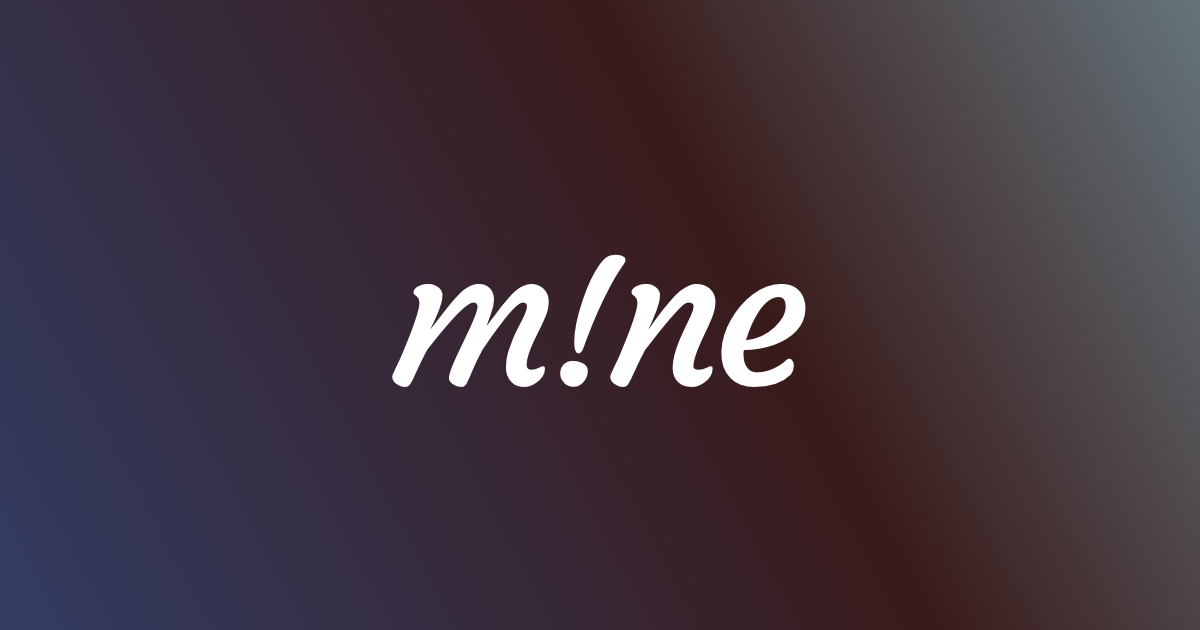
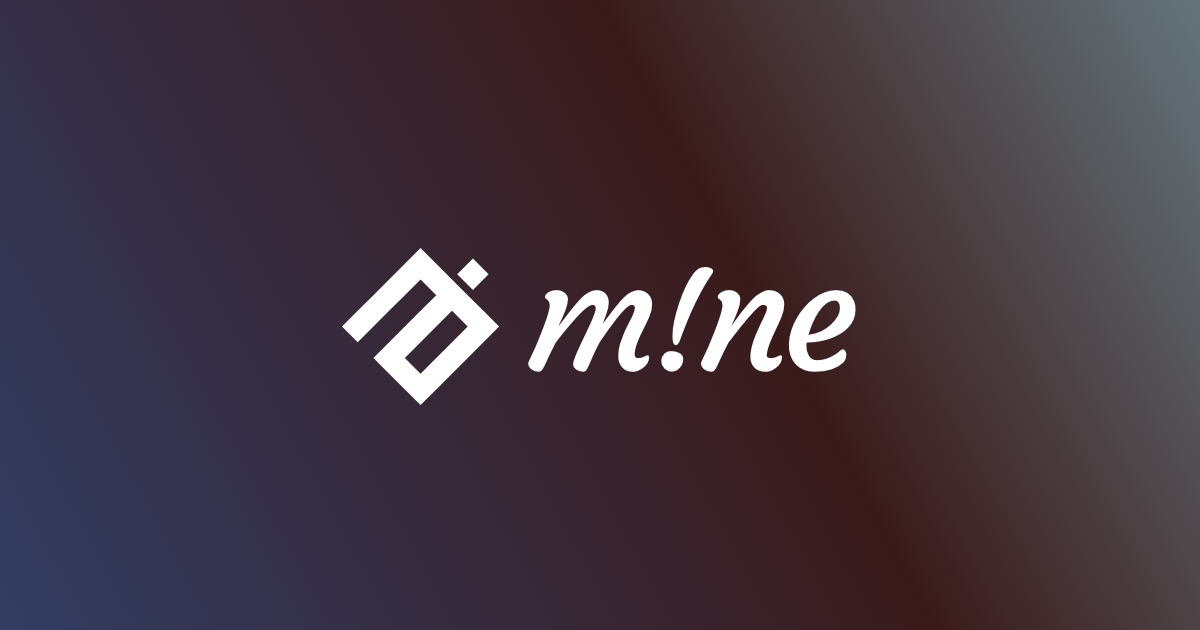
サイトロゴリニューアル

Changed region(s): [[0.2775, 0.3921, 0.74, 0.6333]]

diff --git a/components/MineLogo.vue b/components/MineLogo.vue
@@ -1,18 +1,17 @@
 <template>
-  <svg xmlns="http://www.w3.org/2000/svg" viewBox="0 0 164.36 55.63" :class="{jsAnimation: isLoaded}">
-    <defs>
-      <style>.cls-1{fill:transparent;stroke:#ffffff;stroke-miterlimit:10;}</style>
-    </defs>
-    <g id="logo">
-      <title>mine</title>
-      <g id="mine">
-        <path class="cls-1 svg-elem-1" d="M29.47,17.26q-2,0-7.45,5.91Q18,27.78,16.14,30.1L13,34.1q-2,3.87-3.2,6.44l-1.9,4.07A10.13,10.13,0,0,1,6.6,46.74a1.88,1.88,0,0,1-1.48.62A4.75,4.75,0,0,1,3.33,47a5.29,5.29,0,0,1-1.49-.86A3.19,3.19,0,0,1,.5,43.7a6.28,6.28,0,0,1,.77-2.07l1.34-2.85c.42-.84.91-1.92,1.48-3.24l2-4.81q4.16-10.38,4.15-13.4a2.79,2.79,0,0,0-1-2.39l-.7-.49a1,1,0,0,1-.36-.86,1.81,1.81,0,0,1,.48-1.18,4.22,4.22,0,0,1,1.25-1A6.89,6.89,0,0,1,13,10.62a7.33,7.33,0,0,1,2.51.35,4.9,4.9,0,0,1,1.58.95,3.54,3.54,0,0,1,1.34,2.57,10.92,10.92,0,0,1-.35,2.69c-.24.9-.53,1.81-.88,2.74s-.73,1.82-1.13,2.69c-.93,2-1.51,3.25-1.74,3.71s-.28.62-.19.51q6.43-8.34,7.74-9.85a34.31,34.31,0,0,1,4.21-4.29,9,9,0,0,1,5.26-2.07,5.17,5.17,0,0,1,3.95,1.55,5.63,5.63,0,0,1,1.48,4.07,15.11,15.11,0,0,1-1.12,5.21c-.75,2-1.26,3.38-1.52,4.18l5.17-6.82,2.89-3.45a15.49,15.49,0,0,1,4.57-3.83A8.06,8.06,0,0,1,50,10.62a6.83,6.83,0,0,1,2.46.46,5.53,5.53,0,0,1,2.06,1.3A6,6,0,0,1,56.29,17,14,14,0,0,1,55,22.57c-.85,1.92-1.58,3.5-2.22,4.73S51.57,29.77,51,31c-1.71,3.73-2.56,6.49-2.56,8.3,0,1.26.51,1.89,1.54,1.89a5.71,5.71,0,0,0,2.69-.63,4.92,4.92,0,0,1,1.57-.63.66.66,0,0,1,.74.74q0,3.12-3.2,5.24a7.22,7.22,0,0,1-3.92,1.44A8.13,8.13,0,0,1,45,46.94a5.66,5.66,0,0,1-2-1.34,7.06,7.06,0,0,1-2-5.1,19.24,19.24,0,0,1,.77-5.62,42.27,42.27,0,0,1,1.83-5q1.05-2.4,2.12-4.43c.72-1.35,1.26-2.42,1.64-3.21a10,10,0,0,0,1.12-3.63c0-.91-.48-1.37-1.44-1.37q-1.89,0-6.82,6.3-3.72,4.88-5.17,7L32.67,34.1q-2,3.87-3.13,6.44l-1.79,4.07a11,11,0,0,1-1.16,2.13,1.68,1.68,0,0,1-1.38.62,5.46,5.46,0,0,1-1.7-.28,5,5,0,0,1-1.42-.74,2.79,2.79,0,0,1-1.38-2.16,9.56,9.56,0,0,1,.76-3.13q.75-2,1.88-4.45l4.92-10.41c1.76-3.86,2.64-6.32,2.64-7.36S30.43,17.26,29.47,17.26ZM33,27.18s0,0,0,0l0-.07C33,27.12,33,27.15,33,27.18Z" />
-        <path class="cls-1 svg-elem-2" d="M65.48,45.14a5,5,0,0,1-1.08-1.49A4.54,4.54,0,0,1,64,41.71a4.28,4.28,0,0,1,.44-2,4.11,4.11,0,0,1,1.1-1.4,4,4,0,0,1,2.5-.94,11.86,11.86,0,0,1,2.24.18,6.6,6.6,0,0,1,1.71.56,2.93,2.93,0,0,1,1.91,2.7,5.57,5.57,0,0,1-1.48,3.84,4.63,4.63,0,0,1-2.9,1.68,5.35,5.35,0,0,1-2.43-.22A4.94,4.94,0,0,1,65.48,45.14Zm5-10.34c-1,0-1.48-1.36-1.48-4.08q0-5.64,3-14.48A46.05,46.05,0,0,1,78.27,3.73,7.48,7.48,0,0,1,82,.74,7.57,7.57,0,0,1,83.79.5a7.94,7.94,0,0,1,1.47.12A4.21,4.21,0,0,1,86.38,1c.71.31,1.06.72,1.06,1.2a2.69,2.69,0,0,1-.6,1.56c-.41.55-1,1.49-1.94,2.82S83,9.62,81.78,11.78A147.64,147.64,0,0,0,73.39,30.1c-.28.71-.52,1.35-.71,1.92a11.86,11.86,0,0,1-.59,1.49C71.67,34.37,71.14,34.8,70.52,34.8Z" />
-        <path class="cls-1 svg-elem-3" d="M114.11,17.26c-.73,0-1.76.7-3.1,2.09s-2.49,2.67-3.48,3.82l-3,3.59L98.78,34.1q-2,3.87-3.2,6.44l-1.9,4.07a10.13,10.13,0,0,1-1.28,2.13,1.88,1.88,0,0,1-1.48.62A4.75,4.75,0,0,1,89.13,47a5.29,5.29,0,0,1-1.49-.86A3.19,3.19,0,0,1,86.3,43.7a6.28,6.28,0,0,1,.77-2.07l1.34-2.85c.42-.84.91-1.92,1.48-3.24l2-4.81Q96,20.35,96,17.33a2.79,2.79,0,0,0-1-2.39l-.7-.49a1,1,0,0,1-.36-.86,1.81,1.81,0,0,1,.48-1.18,4.22,4.22,0,0,1,1.25-1,6.89,6.89,0,0,1,3.18-.81,7.06,7.06,0,0,1,2.48.35,4.29,4.29,0,0,1,1.47.95,3.55,3.55,0,0,1,1.3,2.57,11.38,11.38,0,0,1-.33,2.69,25.86,25.86,0,0,1-.84,2.74c-.34.92-.7,1.83-1.08,2.72s-.71,1.67-1,2.32l-.7,1.51c-.19.38-.23.5-.14.36q3.9-5.41,5.13-7l2.46-2.95a24.16,24.16,0,0,1,4.26-4.18q3.12-2.12,4.92-2.11a8.57,8.57,0,0,1,3,.46,6.26,6.26,0,0,1,2.15,1.3A6,6,0,0,1,123.81,17a15.08,15.08,0,0,1-1.26,5.8c-.85,2-1.58,3.65-2.2,4.9s-1.21,2.53-1.78,3.82q-2.62,5.87-2.63,8.54c0,.8.63,1.19,1.89,1.19a5.71,5.71,0,0,0,2.69-.63,4.92,4.92,0,0,1,1.57-.63.66.66,0,0,1,.74.74q0,3.12-3.2,5.24a7.22,7.22,0,0,1-3.94,1.44,9.59,9.59,0,0,1-3-.39,5.67,5.67,0,0,1-2.09-1.23,6.61,6.61,0,0,1-2.08-5.2q0-4.08,2.57-10.2,1.86-4.18,2.64-5.73l1.19-2.5A8.78,8.78,0,0,0,116,18.56C116,17.7,115.4,17.26,114.11,17.26Z" />
-        <path class="cls-1 svg-elem-4" d="M129.51,34.7a22.55,22.55,0,0,1,1-5.85,28.13,28.13,0,0,1,2.35-5.42,32.61,32.61,0,0,1,3.46-4.95,27.24,27.24,0,0,1,4.31-4.1,16.85,16.85,0,0,1,10.16-3.76q6,0,8,5a9.94,9.94,0,0,1,.67,4,11.2,11.2,0,0,1-.88,4.25,12.72,12.72,0,0,1-2.34,3.55,17.27,17.27,0,0,1-3.55,2.87,25,25,0,0,1-4.48,2.14,33.39,33.39,0,0,1-10.69,1.83,6.08,6.08,0,0,0-.18,1.48,9.84,9.84,0,0,0,.21,2.19,6.46,6.46,0,0,0,.85,2.16,4,4,0,0,0,3.65,2.11A14.89,14.89,0,0,0,150,39.76a11,11,0,0,0,2.23-1.67,2.36,2.36,0,0,1,1.49-.86,1.31,1.31,0,0,1,1.11.76,3.09,3.09,0,0,1,.48,1.7,5.13,5.13,0,0,1-1.06,3.24q-4.42,4.43-13.18,4.43a11.27,11.27,0,0,1-8.3-3.1Q129.3,40.75,129.51,34.7ZM150,15.29q-3.69,0-7.1,5.07a37.77,37.77,0,0,0-4.64,10.33,17.05,17.05,0,0,0,10.19-4.64c2.65-2.53,4-4.95,4-7.28S151.66,15.29,150,15.29Z" />
-      </g>
-    </g>
+  <svg xmlns="http://www.w3.org/2000/svg" viewBox="0 0 500 500" :class="{jsAnimation: isLoaded}">
+  <style type="text/css">
+    .st0{fill:#FFFFFF;stroke:#FFFFFF;stroke-width:3;stroke-miterlimit:10;}
+  </style>
+  <g>
+    <rect x="361.4" y="78.6" transform="matrix(0.7071 -0.7071 0.7071 0.7071 37.868 308.5786)" class="st0 svg-elem-1" width="60" height="60"></rect>
+    <path class="st0 svg-elem-2" d="M419.7,207.6l-42.4-42.4l-42.4-42.4l-42.4-42.4L250,37.9l-42.4,42.4l-42.4,42.4l-42.4,42.4l-42.4,42.4
+      L37.9,250l42.4,42.4l42.4-42.4l42.4-42.4l42.4-42.4l42.4-42.4l42.4,42.4L250,207.6L207.6,250l-42.4,42.4l-42.4,42.4l42.4,42.4
+      l42.4,42.4l42.4,42.4l42.4-42.4l42.4-42.4l42.4-42.4l42.4-42.4l42.4-42.4L419.7,207.6z M334.9,292.4l-42.4,42.4L250,377.3
+      l-42.4-42.4l42.4-42.4l42.4-42.4l42.4-42.4l42.4,42.4L334.9,292.4z"></path>
+  </g>
   </svg>
+
 </template>
 
 <script>
@@ -25,60 +24,38 @@ export default {
 
 <style lang="scss" scoped>
 /***************************************************
- * Generated by SVG Artista on 7/13/2021, 2:16:33 PM
+ * Generated by SVG Artista on 9/5/2021, 11:52:19 PM
  * MIT license (https://opensource.org/licenses/MIT)
  * W. https://svgartista.net
  **************************************************/
 svg .svg-elem-1 {
-  stroke-dashoffset: 336.7806396484375px;
-  stroke-dasharray: 336.7806396484375px;
+  stroke-dashoffset: 242px;
+  stroke-dasharray: 242px;
   fill: transparent;
   -webkit-transition: stroke-dashoffset 1s cubic-bezier(0.47, 0, 0.745, 0.715) 0s,
                         fill 0.7s cubic-bezier(0.47, 0, 0.745, 0.715) 0.8s;
           transition: stroke-dashoffset 1s cubic-bezier(0.47, 0, 0.745, 0.715) 0s,
                 fill 0.7s cubic-bezier(0.47, 0, 0.745, 0.715) 0.8s;
 }
+
 svg.jsAnimation .svg-elem-1 {
   stroke-dashoffset: 0;
-  fill: #FFFFFF;
+  fill: rgb(255, 255, 255);
 }
+
 svg .svg-elem-2 {
-  stroke-dashoffset: 134.23880004882812px;
-  stroke-dasharray: 134.23880004882812px;
+  stroke-dashoffset: 2160.796875px;
+  stroke-dasharray: 2160.796875px;
   fill: transparent;
   -webkit-transition: stroke-dashoffset 1s cubic-bezier(0.47, 0, 0.745, 0.715) 0.12s,
                         fill 0.7s cubic-bezier(0.47, 0, 0.745, 0.715) 0.9s;
           transition: stroke-dashoffset 1s cubic-bezier(0.47, 0, 0.745, 0.715) 0.12s,
                 fill 0.7s cubic-bezier(0.47, 0, 0.745, 0.715) 0.9s;
 }
+
 svg.jsAnimation .svg-elem-2 {
   stroke-dashoffset: 0;
-  fill: #FFFFFF;
+  fill: rgb(255, 255, 255);
 }
-svg .svg-elem-3 {
-  stroke-dashoffset: 222.09339904785156px;
-  stroke-dasharray: 222.09339904785156px;
-  fill: transparent;
-  -webkit-transition: stroke-dashoffset 1s cubic-bezier(0.47, 0, 0.745, 0.715) 0.24s,
-                        fill 0.7s cubic-bezier(0.47, 0, 0.745, 0.715) 1s;
-          transition: stroke-dashoffset 1s cubic-bezier(0.47, 0, 0.745, 0.715) 0.24s,
-                fill 0.7s cubic-bezier(0.47, 0, 0.745, 0.715) 1s;
-}
-svg.jsAnimation .svg-elem-3 {
-  stroke-dashoffset: 0;
-  fill: #FFFFFF;
-}
-svg .svg-elem-4 {
-  stroke-dashoffset: 189.55348205566406px;
-  stroke-dasharray: 189.55348205566406px;
-  fill: transparent;
-  -webkit-transition: stroke-dashoffset 1s cubic-bezier(0.47, 0, 0.745, 0.715) 0.36s,
-                        fill 0.7s cubic-bezier(0.47, 0, 0.745, 0.715) 1.1s;
-          transition: stroke-dashoffset 1s cubic-bezier(0.47, 0, 0.745, 0.715) 0.36s,
-                fill 0.7s cubic-bezier(0.47, 0, 0.745, 0.715) 1.1s;
-}
-svg.jsAnimation .svg-elem-4 {
-  stroke-dashoffset: 0;
-  fill: #FFFFFF;
-}
+
 </style>

diff --git a/components/MineText.vue b/components/MineText.vue
@@ -1,0 +1,84 @@
+<template>
+  <svg xmlns="http://www.w3.org/2000/svg" viewBox="0 0 164.36 55.63" :class="{jsAnimation: isLoaded}">
+    <defs>
+      <style>.cls-1{fill:transparent;stroke:#ffffff;stroke-miterlimit:10;}</style>
+    </defs>
+    <g id="logoText">
+      <title>mine</title>
+      <g>
+        <path class="cls-1 svg-elem-1" d="M29.47,17.26q-2,0-7.45,5.91Q18,27.78,16.14,30.1L13,34.1q-2,3.87-3.2,6.44l-1.9,4.07A10.13,10.13,0,0,1,6.6,46.74a1.88,1.88,0,0,1-1.48.62A4.75,4.75,0,0,1,3.33,47a5.29,5.29,0,0,1-1.49-.86A3.19,3.19,0,0,1,.5,43.7a6.28,6.28,0,0,1,.77-2.07l1.34-2.85c.42-.84.91-1.92,1.48-3.24l2-4.81q4.16-10.38,4.15-13.4a2.79,2.79,0,0,0-1-2.39l-.7-.49a1,1,0,0,1-.36-.86,1.81,1.81,0,0,1,.48-1.18,4.22,4.22,0,0,1,1.25-1A6.89,6.89,0,0,1,13,10.62a7.33,7.33,0,0,1,2.51.35,4.9,4.9,0,0,1,1.58.95,3.54,3.54,0,0,1,1.34,2.57,10.92,10.92,0,0,1-.35,2.69c-.24.9-.53,1.81-.88,2.74s-.73,1.82-1.13,2.69c-.93,2-1.51,3.25-1.74,3.71s-.28.62-.19.51q6.43-8.34,7.74-9.85a34.31,34.31,0,0,1,4.21-4.29,9,9,0,0,1,5.26-2.07,5.17,5.17,0,0,1,3.95,1.55,5.63,5.63,0,0,1,1.48,4.07,15.11,15.11,0,0,1-1.12,5.21c-.75,2-1.26,3.38-1.52,4.18l5.17-6.82,2.89-3.45a15.49,15.49,0,0,1,4.57-3.83A8.06,8.06,0,0,1,50,10.62a6.83,6.83,0,0,1,2.46.46,5.53,5.53,0,0,1,2.06,1.3A6,6,0,0,1,56.29,17,14,14,0,0,1,55,22.57c-.85,1.92-1.58,3.5-2.22,4.73S51.57,29.77,51,31c-1.71,3.73-2.56,6.49-2.56,8.3,0,1.26.51,1.89,1.54,1.89a5.71,5.71,0,0,0,2.69-.63,4.92,4.92,0,0,1,1.57-.63.66.66,0,0,1,.74.74q0,3.12-3.2,5.24a7.22,7.22,0,0,1-3.92,1.44A8.13,8.13,0,0,1,45,46.94a5.66,5.66,0,0,1-2-1.34,7.06,7.06,0,0,1-2-5.1,19.24,19.24,0,0,1,.77-5.62,42.27,42.27,0,0,1,1.83-5q1.05-2.4,2.12-4.43c.72-1.35,1.26-2.42,1.64-3.21a10,10,0,0,0,1.12-3.63c0-.91-.48-1.37-1.44-1.37q-1.89,0-6.82,6.3-3.72,4.88-5.17,7L32.67,34.1q-2,3.87-3.13,6.44l-1.79,4.07a11,11,0,0,1-1.16,2.13,1.68,1.68,0,0,1-1.38.62,5.46,5.46,0,0,1-1.7-.28,5,5,0,0,1-1.42-.74,2.79,2.79,0,0,1-1.38-2.16,9.56,9.56,0,0,1,.76-3.13q.75-2,1.88-4.45l4.92-10.41c1.76-3.86,2.64-6.32,2.64-7.36S30.43,17.26,29.47,17.26ZM33,27.18s0,0,0,0l0-.07C33,27.12,33,27.15,33,27.18Z" />
+        <path class="cls-1 svg-elem-2" d="M65.48,45.14a5,5,0,0,1-1.08-1.49A4.54,4.54,0,0,1,64,41.71a4.28,4.28,0,0,1,.44-2,4.11,4.11,0,0,1,1.1-1.4,4,4,0,0,1,2.5-.94,11.86,11.86,0,0,1,2.24.18,6.6,6.6,0,0,1,1.71.56,2.93,2.93,0,0,1,1.91,2.7,5.57,5.57,0,0,1-1.48,3.84,4.63,4.63,0,0,1-2.9,1.68,5.35,5.35,0,0,1-2.43-.22A4.94,4.94,0,0,1,65.48,45.14Zm5-10.34c-1,0-1.48-1.36-1.48-4.08q0-5.64,3-14.48A46.05,46.05,0,0,1,78.27,3.73,7.48,7.48,0,0,1,82,.74,7.57,7.57,0,0,1,83.79.5a7.94,7.94,0,0,1,1.47.12A4.21,4.21,0,0,1,86.38,1c.71.31,1.06.72,1.06,1.2a2.69,2.69,0,0,1-.6,1.56c-.41.55-1,1.49-1.94,2.82S83,9.62,81.78,11.78A147.64,147.64,0,0,0,73.39,30.1c-.28.71-.52,1.35-.71,1.92a11.86,11.86,0,0,1-.59,1.49C71.67,34.37,71.14,34.8,70.52,34.8Z" />
+        <path class="cls-1 svg-elem-3" d="M114.11,17.26c-.73,0-1.76.7-3.1,2.09s-2.49,2.67-3.48,3.82l-3,3.59L98.78,34.1q-2,3.87-3.2,6.44l-1.9,4.07a10.13,10.13,0,0,1-1.28,2.13,1.88,1.88,0,0,1-1.48.62A4.75,4.75,0,0,1,89.13,47a5.29,5.29,0,0,1-1.49-.86A3.19,3.19,0,0,1,86.3,43.7a6.28,6.28,0,0,1,.77-2.07l1.34-2.85c.42-.84.91-1.92,1.48-3.24l2-4.81Q96,20.35,96,17.33a2.79,2.79,0,0,0-1-2.39l-.7-.49a1,1,0,0,1-.36-.86,1.81,1.81,0,0,1,.48-1.18,4.22,4.22,0,0,1,1.25-1,6.89,6.89,0,0,1,3.18-.81,7.06,7.06,0,0,1,2.48.35,4.29,4.29,0,0,1,1.47.95,3.55,3.55,0,0,1,1.3,2.57,11.38,11.38,0,0,1-.33,2.69,25.86,25.86,0,0,1-.84,2.74c-.34.92-.7,1.83-1.08,2.72s-.71,1.67-1,2.32l-.7,1.51c-.19.38-.23.5-.14.36q3.9-5.41,5.13-7l2.46-2.95a24.16,24.16,0,0,1,4.26-4.18q3.12-2.12,4.92-2.11a8.57,8.57,0,0,1,3,.46,6.26,6.26,0,0,1,2.15,1.3A6,6,0,0,1,123.81,17a15.08,15.08,0,0,1-1.26,5.8c-.85,2-1.58,3.65-2.2,4.9s-1.21,2.53-1.78,3.82q-2.62,5.87-2.63,8.54c0,.8.63,1.19,1.89,1.19a5.71,5.71,0,0,0,2.69-.63,4.92,4.92,0,0,1,1.57-.63.66.66,0,0,1,.74.74q0,3.12-3.2,5.24a7.22,7.22,0,0,1-3.94,1.44,9.59,9.59,0,0,1-3-.39,5.67,5.67,0,0,1-2.09-1.23,6.61,6.61,0,0,1-2.08-5.2q0-4.08,2.57-10.2,1.86-4.18,2.64-5.73l1.19-2.5A8.78,8.78,0,0,0,116,18.56C116,17.7,115.4,17.26,114.11,17.26Z" />
+        <path class="cls-1 svg-elem-4" d="M129.51,34.7a22.55,22.55,0,0,1,1-5.85,28.13,28.13,0,0,1,2.35-5.42,32.61,32.61,0,0,1,3.46-4.95,27.24,27.24,0,0,1,4.31-4.1,16.85,16.85,0,0,1,10.16-3.76q6,0,8,5a9.94,9.94,0,0,1,.67,4,11.2,11.2,0,0,1-.88,4.25,12.72,12.72,0,0,1-2.34,3.55,17.27,17.27,0,0,1-3.55,2.87,25,25,0,0,1-4.48,2.14,33.39,33.39,0,0,1-10.69,1.83,6.08,6.08,0,0,0-.18,1.48,9.84,9.84,0,0,0,.21,2.19,6.46,6.46,0,0,0,.85,2.16,4,4,0,0,0,3.65,2.11A14.89,14.89,0,0,0,150,39.76a11,11,0,0,0,2.23-1.67,2.36,2.36,0,0,1,1.49-.86,1.31,1.31,0,0,1,1.11.76,3.09,3.09,0,0,1,.48,1.7,5.13,5.13,0,0,1-1.06,3.24q-4.42,4.43-13.18,4.43a11.27,11.27,0,0,1-8.3-3.1Q129.3,40.75,129.51,34.7ZM150,15.29q-3.69,0-7.1,5.07a37.77,37.77,0,0,0-4.64,10.33,17.05,17.05,0,0,0,10.19-4.64c2.65-2.53,4-4.95,4-7.28S151.66,15.29,150,15.29Z" />
+      </g>
+    </g>
+  </svg>
+</template>
+
+<script>
+export default {
+  props: {
+    isLoaded: Boolean
+  }
+}
+</script>
+
+<style lang="scss" scoped>
+/***************************************************
+ * Generated by SVG Artista on 7/13/2021, 2:16:33 PM
+ * MIT license (https://opensource.org/licenses/MIT)
+ * W. https://svgartista.net
+ **************************************************/
+svg .svg-elem-1 {
+  stroke-dashoffset: 336.7806396484375px;
+  stroke-dasharray: 336.7806396484375px;
+  fill: transparent;
+  -webkit-transition: stroke-dashoffset 1s cubic-bezier(0.47, 0, 0.745, 0.715) 0s,
+                        fill 0.7s cubic-bezier(0.47, 0, 0.745, 0.715) 0.8s;
+          transition: stroke-dashoffset 1s cubic-bezier(0.47, 0, 0.745, 0.715) 0s,
+                fill 0.7s cubic-bezier(0.47, 0, 0.745, 0.715) 0.8s;
+}
+svg.jsAnimation .svg-elem-1 {
+  stroke-dashoffset: 0;
+  fill: #FFFFFF;
+}
+svg .svg-elem-2 {
+  stroke-dashoffset: 134.23880004882812px;
+  stroke-dasharray: 134.23880004882812px;
+  fill: transparent;
+  -webkit-transition: stroke-dashoffset 1s cubic-bezier(0.47, 0, 0.745, 0.715) 0.12s,
+                        fill 0.7s cubic-bezier(0.47, 0, 0.745, 0.715) 0.9s;
+          transition: stroke-dashoffset 1s cubic-bezier(0.47, 0, 0.745, 0.715) 0.12s,
+                fill 0.7s cubic-bezier(0.47, 0, 0.745, 0.715) 0.9s;
+}
+svg.jsAnimation .svg-elem-2 {
+  stroke-dashoffset: 0;
+  fill: #FFFFFF;
+}
+svg .svg-elem-3 {
+  stroke-dashoffset: 222.09339904785156px;
+  stroke-dasharray: 222.09339904785156px;
+  fill: transparent;
+  -webkit-transition: stroke-dashoffset 1s cubic-bezier(0.47, 0, 0.745, 0.715) 0.24s,
+                        fill 0.7s cubic-bezier(0.47, 0, 0.745, 0.715) 1s;
+          transition: stroke-dashoffset 1s cubic-bezier(0.47, 0, 0.745, 0.715) 0.24s,
+                fill 0.7s cubic-bezier(0.47, 0, 0.745, 0.715) 1s;
+}
+svg.jsAnimation .svg-elem-3 {
+  stroke-dashoffset: 0;
+  fill: #FFFFFF;
+}
+svg .svg-elem-4 {
+  stroke-dashoffset: 189.55348205566406px;
+  stroke-dasharray: 189.55348205566406px;
+  fill: transparent;
+  -webkit-transition: stroke-dashoffset 1s cubic-bezier(0.47, 0, 0.745, 0.715) 0.36s,
+                        fill 0.7s cubic-bezier(0.47, 0, 0.745, 0.715) 1.1s;
+          transition: stroke-dashoffset 1s cubic-bezier(0.47, 0, 0.745, 0.715) 0.36s,
+                fill 0.7s cubic-bezier(0.47, 0, 0.745, 0.715) 1.1s;
+}
+svg.jsAnimation .svg-elem-4 {
+  stroke-dashoffset: 0;
+  fill: #FFFFFF;
+}
+</style>

diff --git a/components/SiteHeaderLogo.vue b/components/SiteHeaderLogo.vue
@@ -1,7 +1,14 @@
 <template>
   <div :class="['siteHeaderlogo',{jsAnimation: isScrolledWindowHeight}]">
-    <div class="siteHeaderlogo__logo">
-      <MineLogo :isLoaded="isScrolledWindowHeight"/>
+    <div class="siteHeaderlogo__wrapper">
+      <MineLogo
+        class="siteHeaderlogo__logo"
+        :isLoaded="isScrolledWindowHeight"
+      />
+      <MineText
+        class="siteHeaderlogo__text"
+        :isLoaded="isScrolledWindowHeight"
+      />
     </div>
     <nuxt-link
       to="/"
@@ -51,22 +58,38 @@ export default {
   &.jsAnimation {
     background: rgba(0,0,0,0.5);
   }
-  &__logo,
+  &__wrapper,
   &__link {
-    width: 80px;
+    display: flex;
+    align-items: center;
     position: absolute;
     left: 26px;
-    top: 22px;
+    top: 15px;
     @media (max-width: 767px) {
-      width: 60px;
-      left: 12px;
-      top: 10px;
+      left: 8px;
+      top: 8px;
     }
   }
   &__link {
-    height: 30px;
+    width: 125px;
+    height: 40px;
     @media (max-width: 767px) {
-      height: 23px;
+      width: 90px;
+      height: 28px;
+    }
+  }
+  &__logo {
+    width: 40px;
+    margin-right: 4px;
+    @media (max-width: 767px) {
+      width: 28px;
+      margin-right: 2px;
+    }
+  }
+  &__text {
+    width: 80px;
+    @media (max-width: 767px) {
+      width: 60px;
     }
   }
 }

diff --git a/pages/index.vue b/pages/index.vue
@@ -4,6 +4,7 @@
     <div :class="['mainvisual', {jsScrolledWindowHeight: isScrolledWindowHeight}]">
       <h1 class="mainvisual__logo">
         <MineLogo :isLoaded="isLoaded"/>
+        <MineText :isLoaded="isLoaded"/>
       </h1>
       <i :class="[`mainvisual__scrollIcon`, {jsAnimation: isLoaded}]">
         <i class="mainvisual__scrollIconBorder"></i>
@@ -71,9 +72,14 @@ export default {
     z-index: 2;
     transform: translate(-50%, -50%);
     svg {
-      width: 150px;
+      width: 100px;
+      margin-bottom: 5px;
+      display: block;
+      &:last-child {
+        margin-bottom: 0px;
+      }
       @media (max-width: 767px) {
-        width: 120px;
+        width: 70px;
       }
     }
   }
